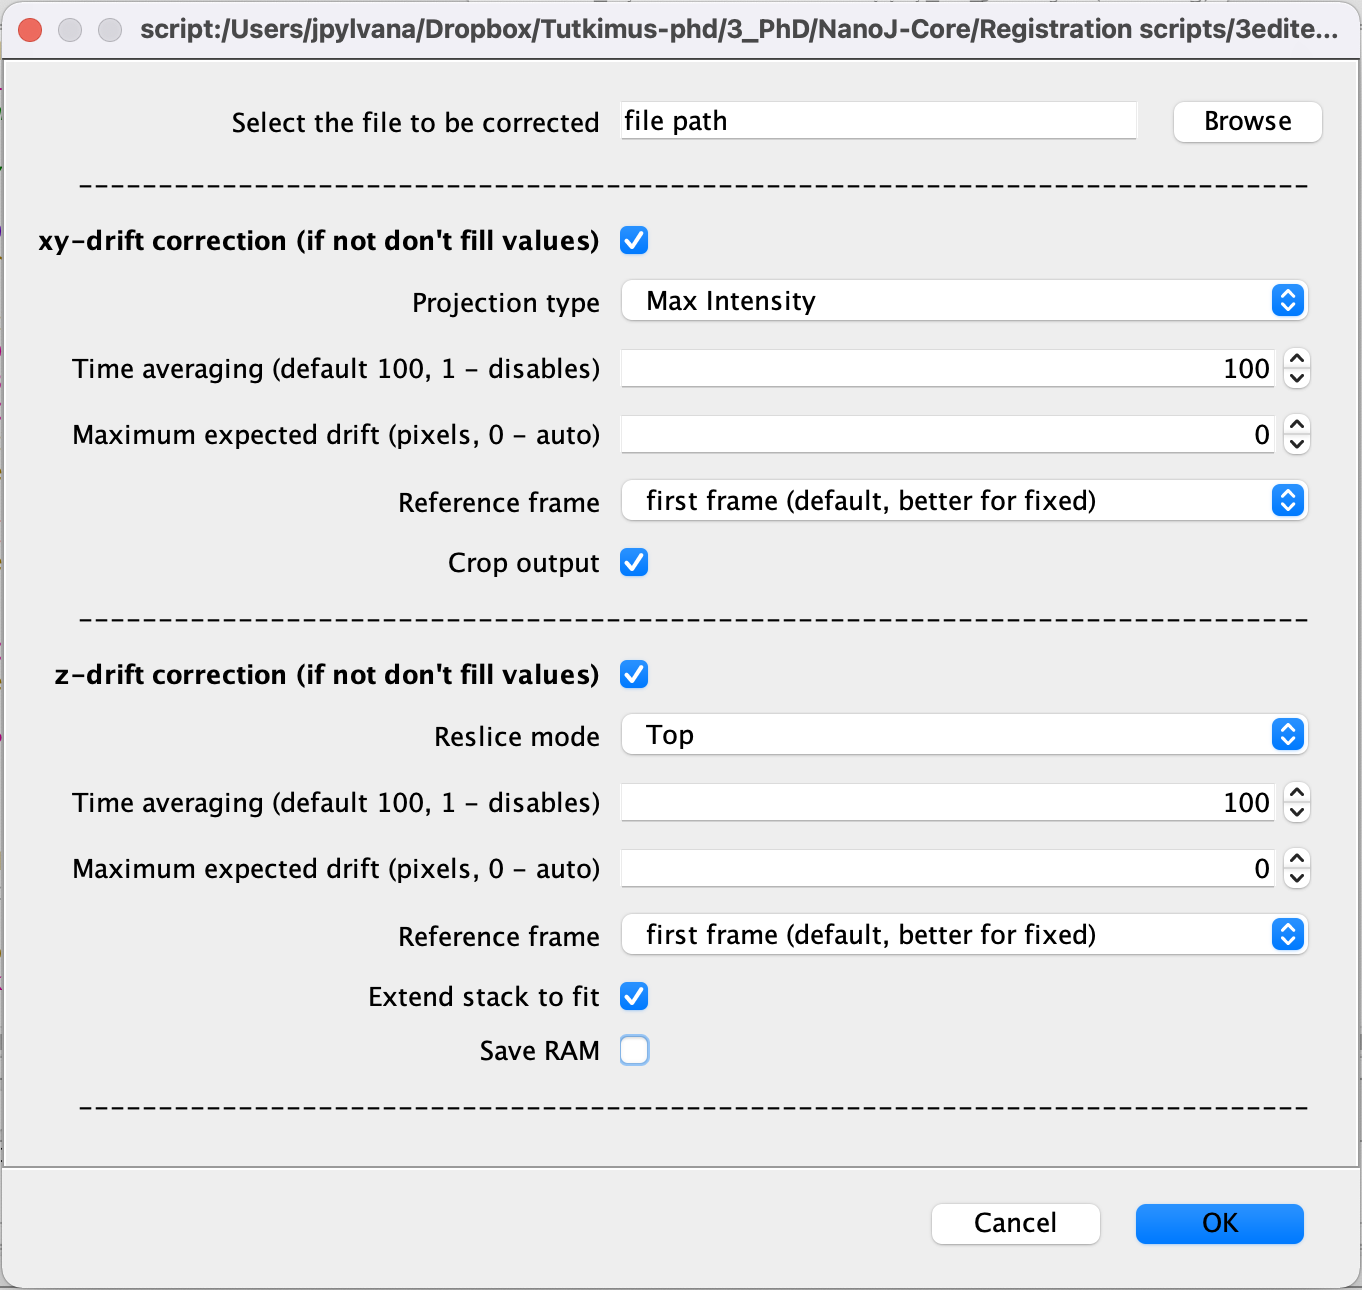
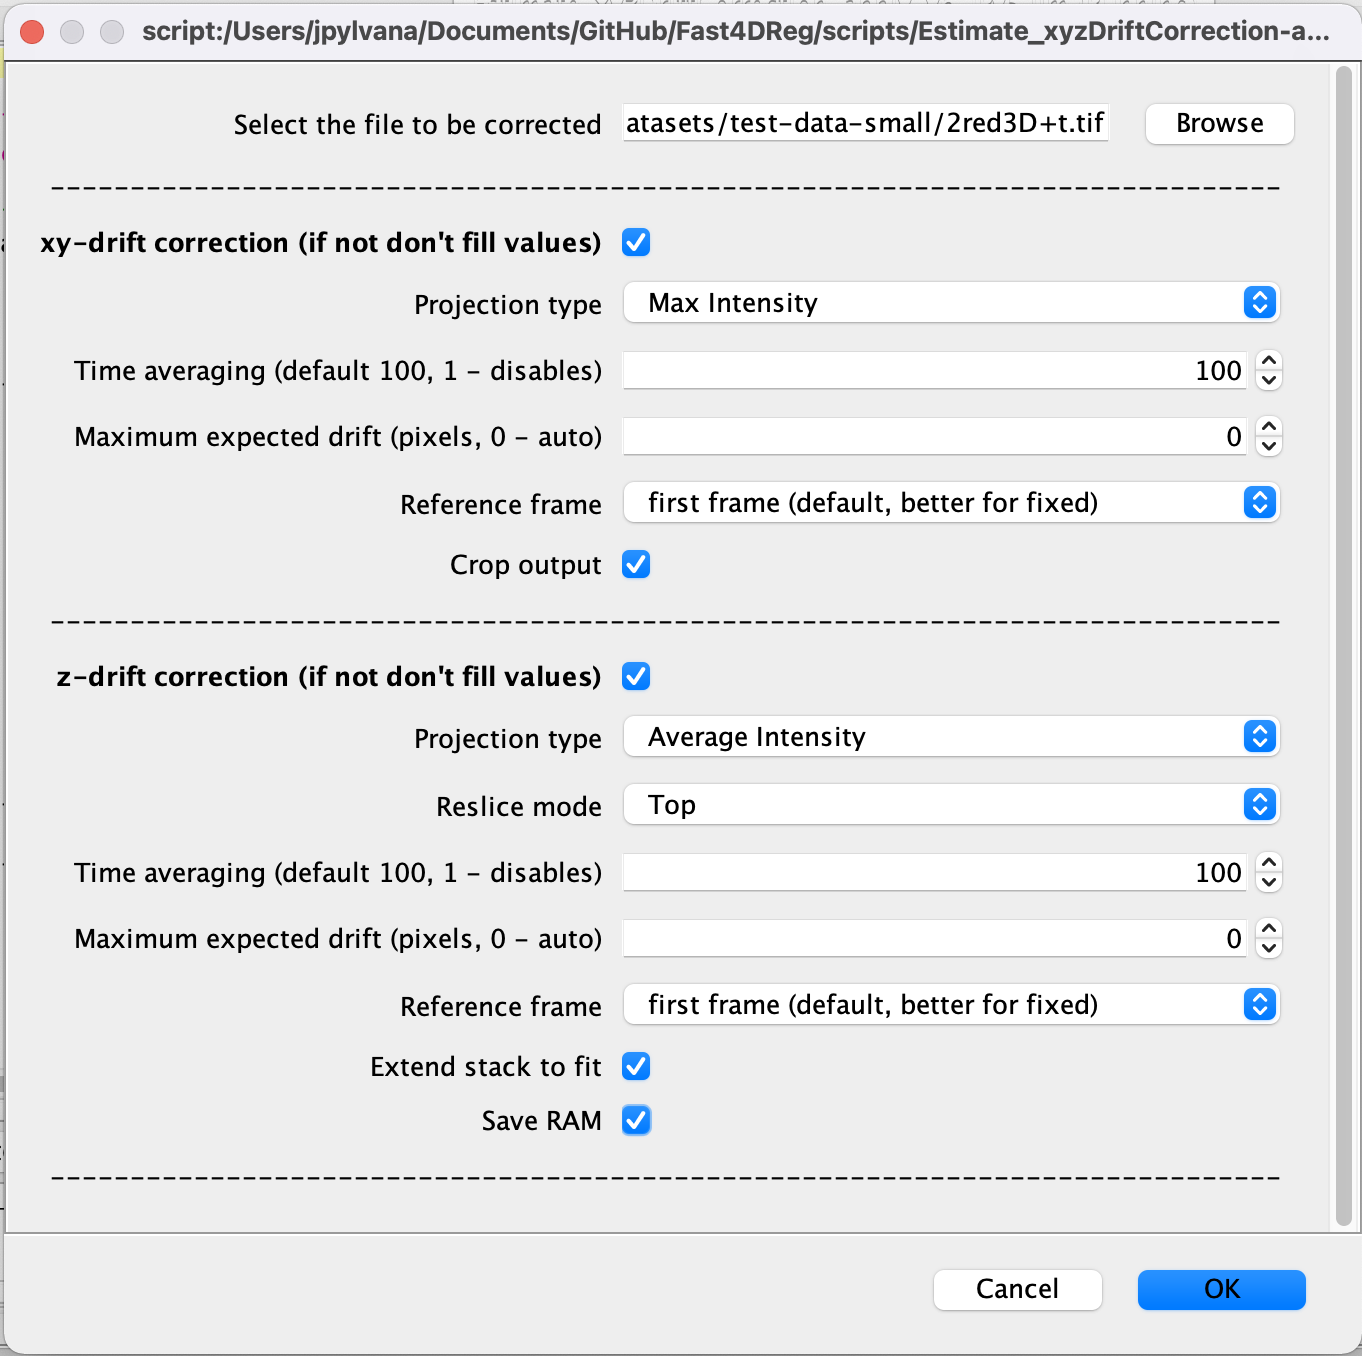
UI updated

diff --git a/README.md b/README.md
@@ -33,7 +33,7 @@ Fast4DReg requires the NanoJ-Core plugin, which can be installed through Fiji up
 3. In the user interface
      - Set the path to the file to be corrected
      - if you want to correct for xy-drift, tick the xy-drift correction box
-     - Select projection type (maximum or average intensity) 
+     - Select projection type used for xy-drift estimation (maximum or average intensity) 
      - This sets the number of frames to average together to make coarser timepoints on which the
 cross-correlation analysis will be run to calculate drift. Setting this value to 1 will calculate
 straight frame-to-frame cross-correlations and while this should capture drift very accurately, it
@@ -52,6 +52,7 @@ the faster scale sample motion, it is better to compare to the previous frame.
     - Crop output will crop out the black frame created by the image moving. This will be performed on default if continued to z-correction.
     - if you want to correct for z-drift, tick the z-drift correction box.
     - Reslice mode lets you decide if you want to create the projection along the x-axis (top) or y-axis (left).
+    - Select projection type used for z-drift estimation (maximum or average intensity) 
     - next three - see above
     - Extend stack to fit will create extra slices to the stack to ensure that the whole stack is saved.
     - Save RAM - if ticked the z-corrected image is built frame by frame instead of building the image in one go. This saves RAM but approximately doubles the time for processing.
